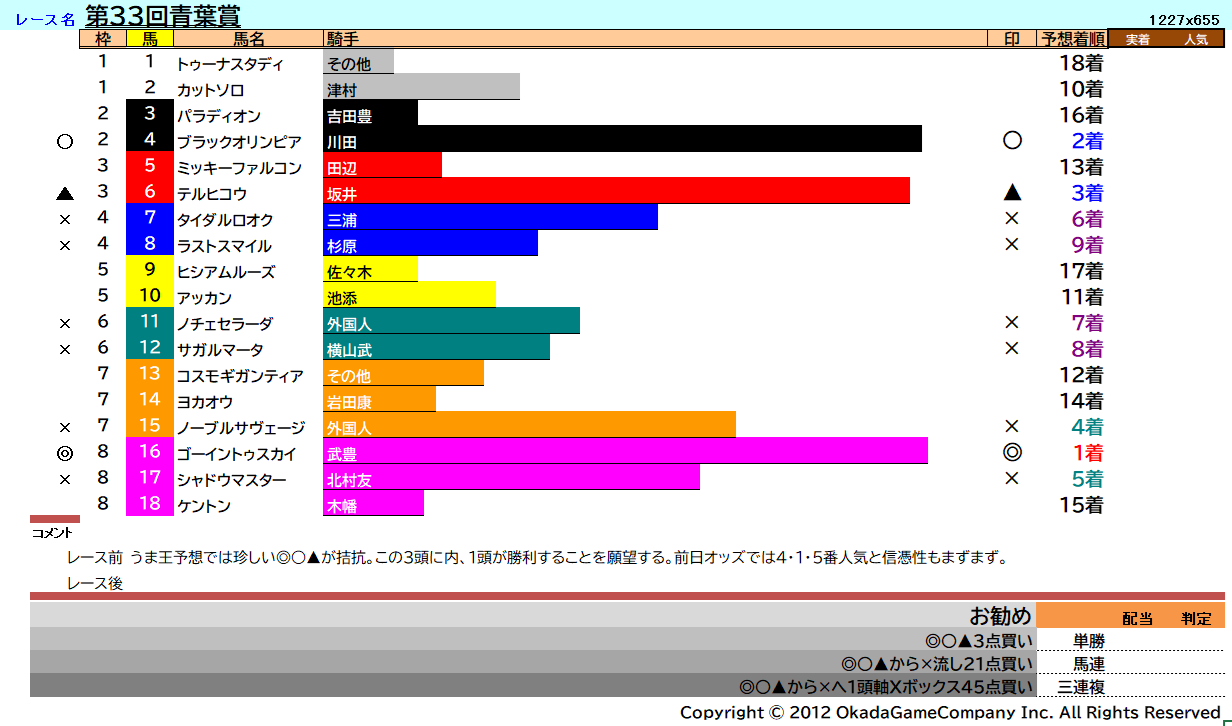
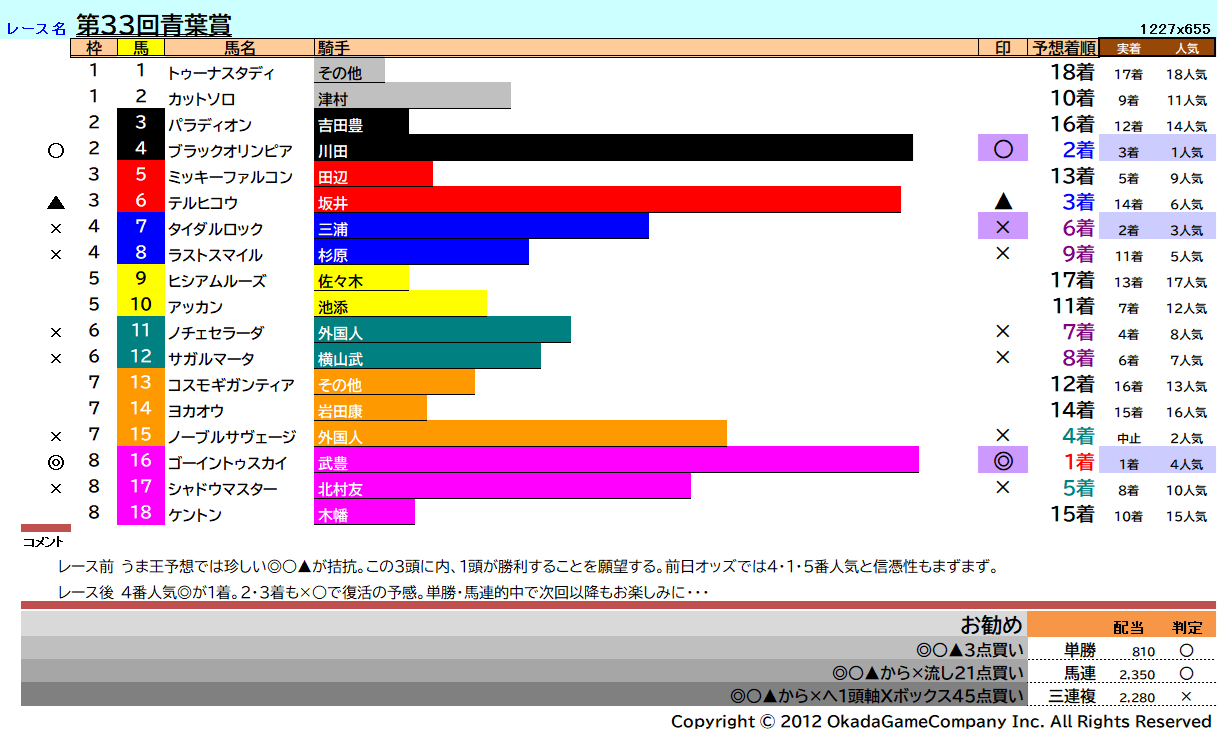
Add files via upload

Changed region(s): [[0.0, 0.0, 1.0, 1.0], [0.8052, 0.4242, 0.8362, 0.5152]]

diff --git a/app.py b/app.py
@@ -2,7 +2,8 @@
 import streamlit as st
 
 options = ["2026年うま王収支表（単勝）","2026年うま王収支表（馬連）","2026年うま王収支表（三連複）",
-           "[新着]青葉賞",
+           "[新着]フローラＳ","[新着]マイラーズＣ",
+           "0425青葉賞",
            "0419皐月賞","0419福島牝馬Ｓ",
            "0418アンタレスＳ",
            "0412桜花賞",
@@ -36,7 +37,9 @@ if enemy:
         "2026年うま王収支表（単勝）": "2026うま王収支表（単勝）.png",
         "2026年うま王収支表（馬連）": "2026うま王収支表（馬連）.png",
         "2026年うま王収支表（三連複）": "2026うま王収支表（三連複）.png",
-        "[新着]青葉賞":"0425青葉賞.png",
+        "[新着]フローラＳ":"0426フローラＳ.png",
+        "[新着]マイラーズＣ":"0426マイラーズＣ.png",
+        "0425青葉賞":"0425青葉賞.png",
         "0419皐月賞":"0419皐月賞.png",
         "0419福島牝馬Ｓ": "0419福島牝馬Ｓ.png",
         "0418アンタレスＳ":"0418アンタレスＳ.png",        
